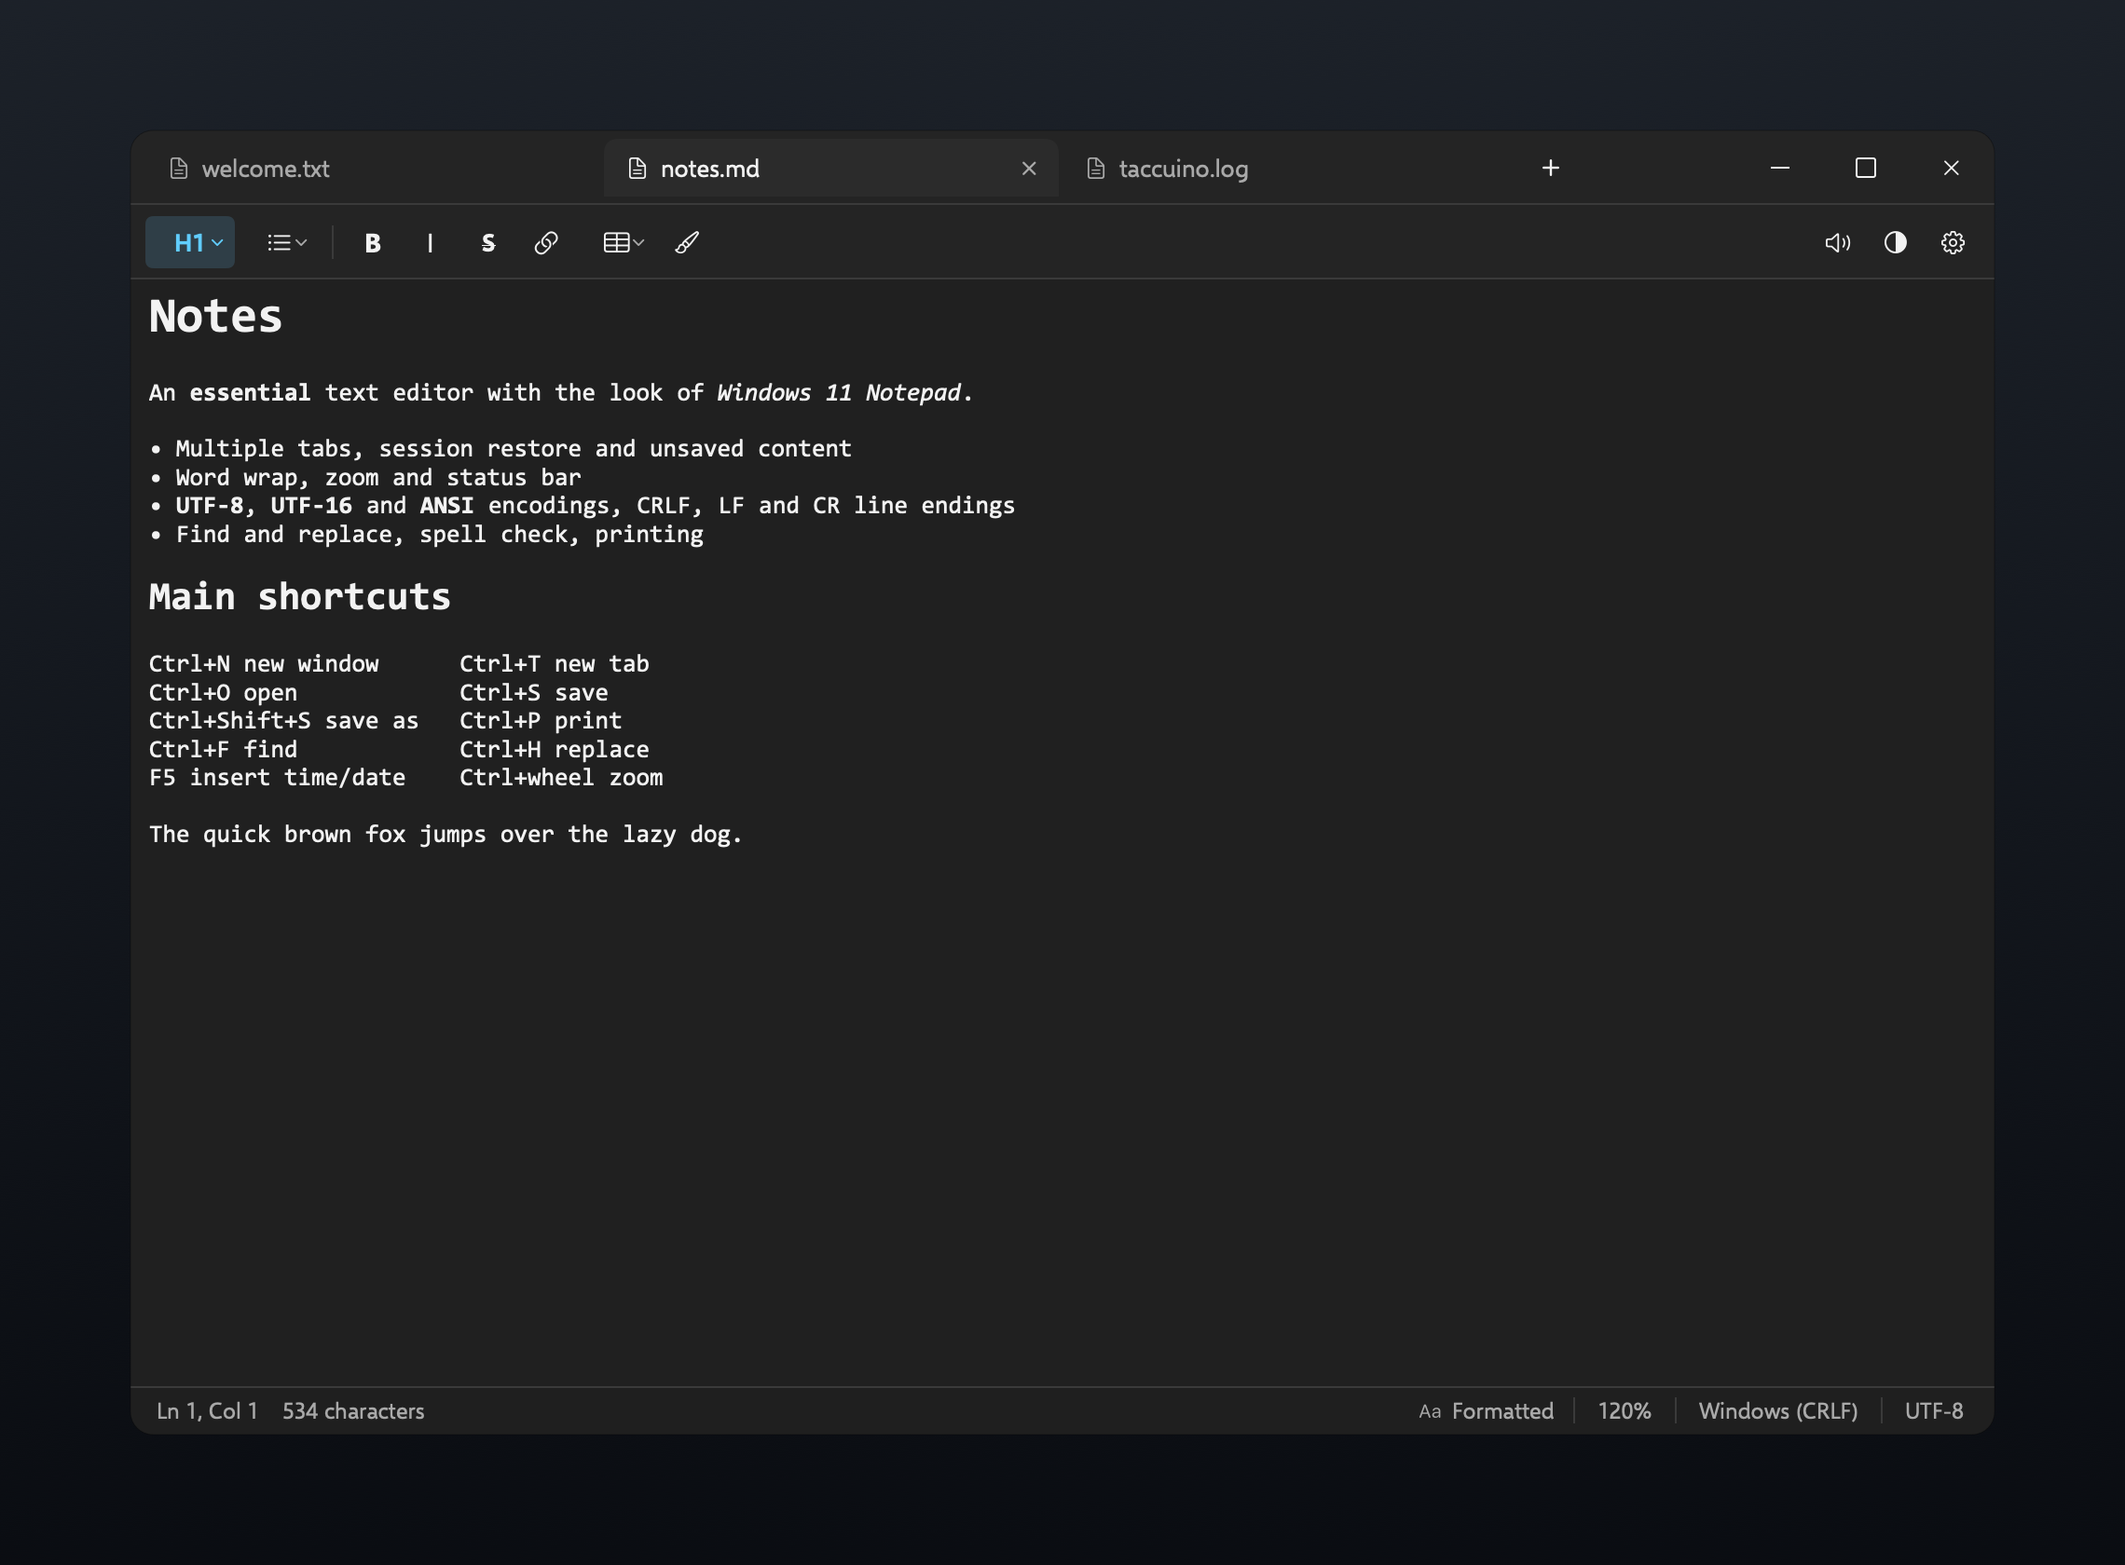
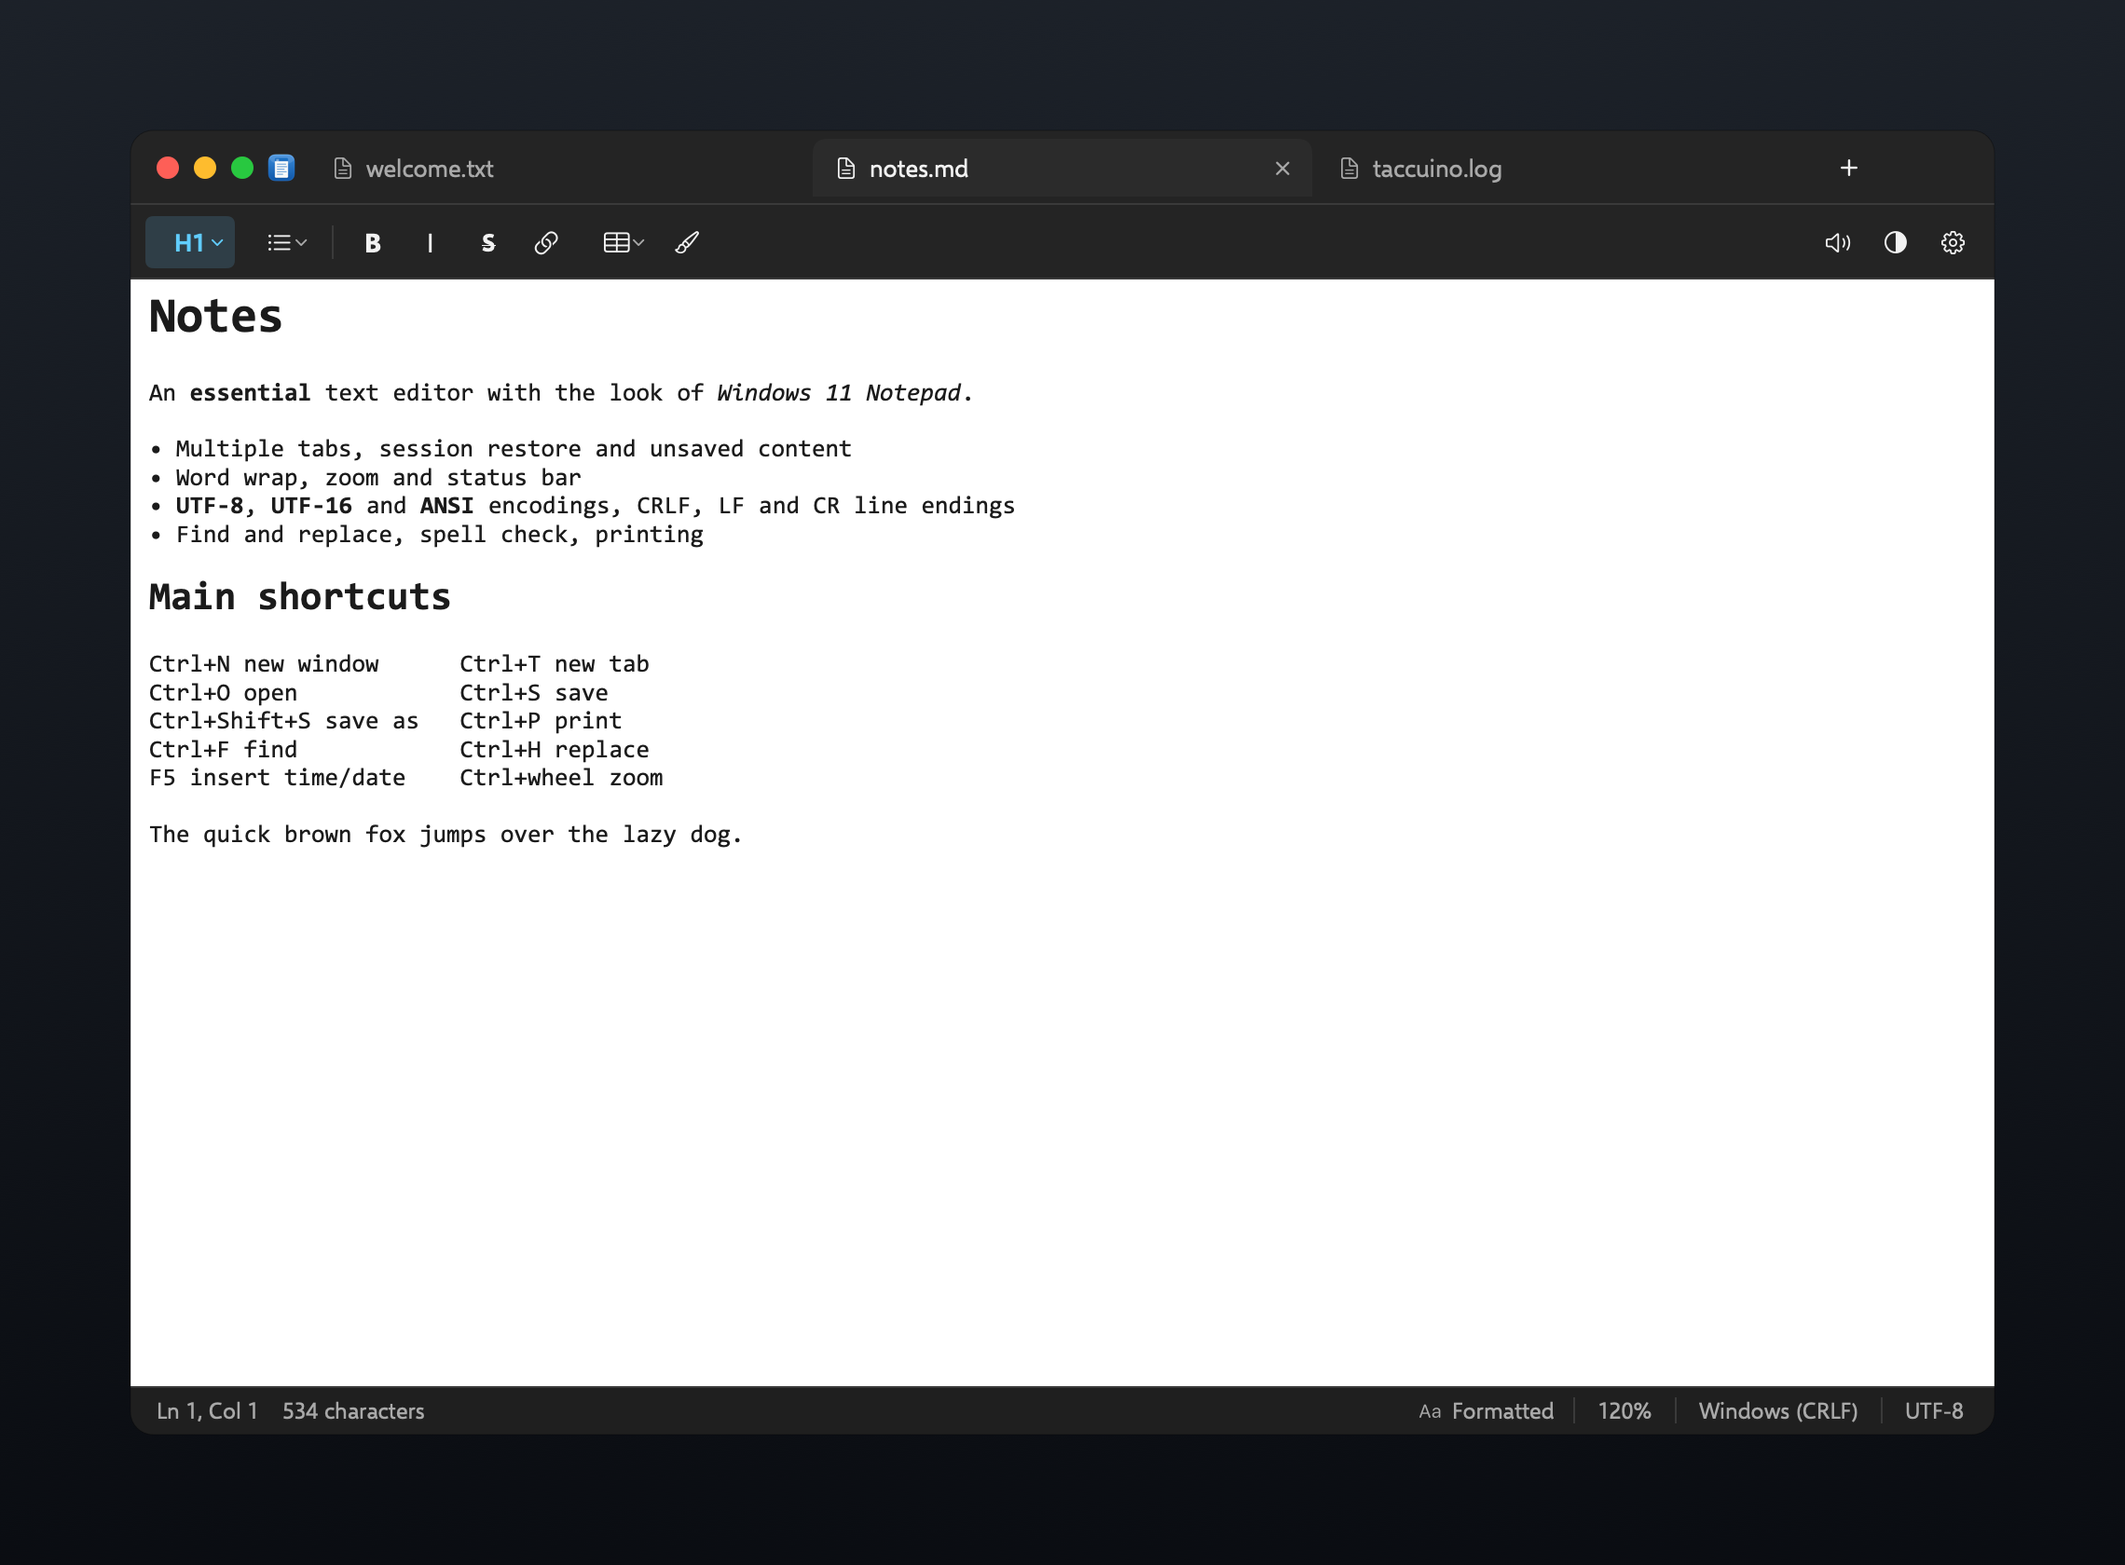
Use macOS window controls only

diff --git a/Sources/Taccuino/Views/WindowChrome.swift b/Sources/Taccuino/Views/WindowChrome.swift
@@ -45,99 +45,3 @@ struct MacTrafficLights: View {
         .accessibilityLabel(help)
     }
 }
-
-/// Pulsanti di riduzione, ingrandimento e chiusura nello stile di Windows 11.
-struct WindowsCaptionButtons: View {
-    @ObservedObject var model: WindowModel
-    let theme: Theme
-
-    var body: some View {
-        HStack(spacing: 0) {
-            captionButton(kind: .minimize)
-            captionButton(kind: .maximize)
-            captionButton(kind: .close)
-        }
-        .frame(height: TabMetrics.barHeight)
-        .accessibilityElement(children: .contain)
-    }
-
-    fileprivate enum Kind {
-        case minimize
-        case maximize
-        case close
-    }
-
-    private func captionButton(kind: Kind) -> some View {
-        CaptionButton(kind: kind, theme: theme) {
-            switch kind {
-            case .minimize:
-                model.window?.performMiniaturize(nil)
-            case .maximize:
-                model.window?.performZoom(nil)
-            case .close:
-                model.window?.performClose(nil)
-            }
-        }
-    }
-}
-
-private struct CaptionButton: View {
-    let kind: WindowsCaptionButtons.Kind
-    let theme: Theme
-    let action: () -> Void
-
-    @State private var hovering = false
-
-    var body: some View {
-        Button(action: action) {
-            ZStack {
-                Rectangle()
-                    .fill(background)
-                glyph
-            }
-            .frame(width: 46, height: TabMetrics.barHeight)
-            .contentShape(Rectangle())
-        }
-        .buttonStyle(.plain)
-        .onHover { hovering = $0 }
-        .help(helpText)
-        .accessibilityLabel(helpText)
-    }
-
-    private var background: Color {
-        if hovering {
-            return kind == .close ? Color(hex: 0xC42B1C) : theme.hover
-        }
-        return .clear
-    }
-
-    private var glyphColor: Color {
-        hovering && kind == .close ? .white : theme.text
-    }
-
-    @ViewBuilder
-    private var glyph: some View {
-        switch kind {
-        case .minimize:
-            Rectangle()
-                .fill(glyphColor)
-                .frame(width: 10, height: 1)
-        case .maximize:
-            RoundedRectangle(cornerRadius: 1)
-                .stroke(glyphColor, lineWidth: 1)
-                .frame(width: 10, height: 10)
-        case .close:
-            Image(systemName: "xmark")
-                .font(.system(size: 10, weight: .regular))
-                .foregroundColor(glyphColor)
-        }
-    }
-
-    private var helpText: String {
-        switch kind {
-        case .minimize: return L.t("Riduci a icona", "Minimize")
-        case .maximize: return L.t("Ingrandisci", "Maximize")
-        case .close: return L.t("Chiudi", "Close")
-        }
-    }
-}

diff --git a/Sources/Taccuino/Models/SettingsStore.swift b/Sources/Taccuino/Models/SettingsStore.swift
@@ -17,20 +17,6 @@ enum ThemeMode: String, CaseIterable, Identifiable {
     }
 }
 
-enum WindowChromeStyle: String, CaseIterable, Identifiable {
-    case macOS
-    case windows
-
-    var id: String { rawValue }
-
-    var displayName: String {
-        switch self {
-        case .macOS: return "macOS"
-        case .windows: return L.t("Windows", "Windows")
-        }
-    }
-}
-
 enum FontStyle: String, CaseIterable, Identifiable {
     case regular
     case bold
@@ -63,7 +49,6 @@ final class SettingsStore: ObservableObject {
         static let spellCheck = "taccuino.spellCheck"
         static let autocorrect = "taccuino.autocorrect"
         static let restoreSession = "taccuino.restoreSession"
-        static let windowChrome = "taccuino.windowChrome"
         static let formattingEnabled = "taccuino.formattingEnabled"
         static let formattingToolbarVisible = "taccuino.formattingToolbarVisible"
         static let autosaveFiles = "taccuino.autosaveFiles"
@@ -115,10 +100,6 @@ final class SettingsStore: ObservableObject {
         didSet { defaults.set(restoreSession, forKey: Key.restoreSession) }
     }
 
-    @Published var windowChrome: WindowChromeStyle {
-        didSet { defaults.set(windowChrome.rawValue, forKey: Key.windowChrome) }
-    }
-
     @Published var formattingEnabled: Bool {
         didSet { defaults.set(formattingEnabled, forKey: Key.formattingEnabled) }
     }
@@ -148,7 +129,6 @@ final class SettingsStore: ObservableObject {
         spellCheck = defaults.object(forKey: Key.spellCheck) as? Bool ?? true
         autocorrect = defaults.object(forKey: Key.autocorrect) as? Bool ?? false
         restoreSession = defaults.object(forKey: Key.restoreSession) as? Bool ?? true
-        windowChrome = WindowChromeStyle(rawValue: defaults.string(forKey: Key.windowChrome) ?? "") ?? .windows
         formattingEnabled = defaults.object(forKey: Key.formattingEnabled) as? Bool ?? true
         formattingToolbarVisible = defaults.object(forKey: Key.formattingToolbarVisible) as? Bool ?? true
         autosaveFiles = defaults.object(forKey: Key.autosaveFiles) as? Bool ?? true

diff --git a/Sources/Taccuino/Views/TabBarView.swift b/Sources/Taccuino/Views/TabBarView.swift
@@ -83,24 +83,20 @@ struct TabBarView: View {
 
     var body: some View {
         GeometryReader { geo in
-            let isMac = settings.windowChrome == .macOS
-            let leading: CGFloat = isMac ? 14 : 8
-            let lights: CGFloat = isMac ? 52 : 0
-            let captions: CGFloat = isMac ? 0 : 138
-            let trailing: CGFloat = isMac ? 8 : 0
+            let leading: CGFloat = 14
+            let lights: CGFloat = 52
+            let trailing: CGFloat = 8
             let dragWidth: CGFloat = 50
-            let fixed = leading + lights + 18 + 18 + dragWidth + 30 + trailing + captions
+            let fixed = leading + lights + 18 + 18 + dragWidth + 30 + trailing
             let available = max(200, geo.size.width - fixed)
             let count = max(1, model.tabCount)
             let tabWidth = min(320, max(84, available / CGFloat(count) - 2))
 
             HStack(spacing: 6) {
-                if isMac {
-                    MacTrafficLights(model: model, theme: theme)
-                        .frame(width: lights)
-                    AppMark()
-                        .frame(width: 18, height: 18)
-                }
+                MacTrafficLights(model: model, theme: theme)
+                    .frame(width: lights)
+                AppMark()
+                    .frame(width: 18, height: 18)
 
                 ScrollViewReader { proxy in
                     ScrollView(.horizontal, showsIndicators: false) {
@@ -132,10 +128,6 @@ struct TabBarView: View {
                 WindowDragArea()
                     .frame(width: dragWidth, height: TabMetrics.barHeight)
 
-                if !isMac {
-                    WindowsCaptionButtons(model: model, theme: theme)
-                        .frame(width: captions)
-                }
             }
             .padding(.leading, leading)
             .padding(.trailing, trailing)

diff --git a/Sources/Taccuino/Views/SettingsView.swift b/Sources/Taccuino/Views/SettingsView.swift
@@ -22,8 +22,6 @@ struct SettingsView: View {
                     SettingsCard(theme: theme) {
                         themeRow
                         rowDivider
-                        chromeRow
-                        rowDivider
                         fontRow
                         rowDivider
                         zoomRow
@@ -143,22 +141,6 @@ struct SettingsView: View {
                     at: CGPoint(x: frame.minX, y: frame.maxY + 2)
                 ) { index in
                     settings.theme = options[index]
-                }
-            }
-        }
-    }
-
-    private var chromeRow: some View {
-        row(title: L.t("Controlli finestra", "Window controls")) {
-            FluentCombo(value: settings.windowChrome.displayName, theme: theme, width: 180) { frame in
-                let options = WindowChromeStyle.allCases
-                let selected = options.firstIndex(of: settings.windowChrome) ?? 0
-                model.showDropdown(
-                    options: options.map(\.displayName),
-                    selected: selected,
-                    at: CGPoint(x: frame.minX, y: frame.maxY + 2)
-                ) { index in
-                    settings.windowChrome = options[index]
                 }
             }
         }

diff --git a/README.md b/README.md
@@ -1,6 +1,6 @@
 # Taccuino
 
-A native macOS text editor that recreates the **Windows 11 Notepad** experience: tabs, status bar, find & replace, Windows encodings, Markdown formatting, real tables and session restore. The UI follows Windows 11 / Fluent design, with **Windows 11 window controls** by default and optional macOS traffic lights. Commands live in the macOS menu bar; the window contains only the tab strip, formatting toolbar, editor and status bar. The interface is available in English and Italian, following the macOS language.
+A native macOS text editor that recreates the **Windows 11 Notepad** experience: tabs, status bar, find & replace, Windows encodings, Markdown formatting, real tables and session restore. The UI follows Windows 11 / Fluent design, with native **macOS traffic-light** window controls. Commands live in the macOS menu bar; the window contains only the tab strip, formatting toolbar, editor and status bar. The interface is available in English and Italian, following the macOS language.
 
 > Independent project, not affiliated with Microsoft. “Notepad” and “Windows” are trademarks of Microsoft Corporation. The code, the Taccuino name and the app icon are original. Bundled fonts (Selawik, Cascadia Mono) are distributed under the SIL OFL 1.1 license; Consolas is not bundled.
 
@@ -10,9 +10,7 @@ A native macOS text editor that recreates the **Windows 11 Notepad** experience:
 |---|---|
 | ![Dark theme](docs/screenshot-dark.png) | ![Find and replace](docs/screenshot-find.png) |
 
-| Settings | macOS window controls (optional) |
-|---|---|
-| ![Settings](docs/screenshot-settings.png) | ![macOS window controls](docs/screenshot-macos.png) |
+![Settings](docs/screenshot-settings.png)
 
 ![Tables](docs/screenshot-tables.png)
 
@@ -24,7 +22,7 @@ A native macOS text editor that recreates the **Windows 11 Notepad** experience:
 
 ## Features
 
-- **Faithful Windows 11 look**: tabs integrated into the title bar, status bar and a translucent **Mica-like** surface in light and dark themes with Fluent blue accents. Window controls are the **Windows 11** minimize/maximize/close buttons by default; macOS traffic lights are available in *Settings › Appearance › Window controls*.
+- **Faithful Windows 11 look**: tabs integrated into the title bar, status bar and a translucent **Mica-like** surface in light and dark themes with Fluent blue accents. Window controls are the native **macOS traffic lights**, aligned with the tab strip.
 - **No in-window menu bar**: File, Edit, View, Format, Window and Settings are in the macOS menu bar. The window only contains tabs, the formatting toolbar, the editor and the status bar.
 - **Markdown formatting**: toolbar below the tabs with normal text and headings (H1–H3), bulleted/numbered lists with indentation, bold, italic, strikethrough, links, tables and clear formatting. With no selection, bold/italic/strikethrough format the word at the cursor; on empty text or whitespace they do nothing instead of inserting stray `****` or `~~~~` markers. A dedicated **Format** menu in the macOS menu bar mirrors the toolbar. The toolbar can be shown or hidden from *View* and Settings. If you disable formatting, you can re-enable it from *View › Enable formatting*, *Format › Enable formatting* or Settings. Switch between **Formatted** and **Markdown** views from the Format menu or the status-bar button. Formatting is stored as Markdown and can be disabled in Settings.
 - **Real tables**: Markdown tables are rendered as a Windows 11-style grid with a header, borders and editable cells. The **Table** button opens an 8×8 grid picker for rows and columns. Click to select a cell, double-click (or start typing) to edit it, drag or Shift-click to select a rectangular range, use the arrow keys to move and Shift+arrows to extend the selection. `⌘C`, `⌘X`, `⌘V` and Delete work on ranges: copy/cut as tab-separated text, paste TSV data (adding rows/columns when needed) and clear cell contents. Bold, italic, strikethrough and clear formatting apply to the selected cells. **Format › Table**, the table context menu and the picker let you add rows/columns above, below, left or right and delete them. Files remain standard Markdown tables.
@@ -47,7 +45,7 @@ A native macOS text editor that recreates the **Windows 11 Notepad** experience:
 - **Themes**: System, Light, Dark. The theme follows macOS appearance changes while the app is open.
 - **File and formatting settings**: auto-save for saved files, formatting/toolbar toggles and default zoom are persistent. Autocorrect can also be toggled from *Edit › Spelling › Autocorrect*.
 - **Bilingual**: English and Italian, following the macOS language. You can set the language for the app only in *System Settings › General › Language & Region › Applications*.
-- **Aligned window**: Windows 11 caption buttons by default (or optional macOS traffic lights), drawn and centered, draggable tab strip, double-click to zoom and full screen from the menu.
+- **Aligned window**: macOS traffic lights drawn and centered, draggable tab strip, double-click to zoom and full screen from the menu.
 - **No telemetry**, no servers, no network access.
 
 ## Requirements
@@ -156,7 +154,7 @@ Sources/Taccuino/
 
 ## Notes and limitations
 
-- **macOS adaptations**: Open/Save panels are native macOS panels. Window buttons are drawn by Taccuino for perfect alignment: **Windows 11 chrome by default**, or macOS traffic lights from Settings. Commands live in the macOS menu bar.
+- **macOS adaptations**: Open/Save panels are native macOS panels. Window buttons are the native **macOS traffic lights**, drawn by Taccuino for perfect alignment with the tab strip. Commands live in the macOS menu bar.
 - The Mica surface uses macOS's translucent material tinted with Fluent colors: it is a Mica-like effect, not a pixel-perfect sampling of the Windows desktop.
 - **Not included**: Microsoft cloud features (Rewrite/Summarize with Copilot), which require Microsoft services. Local Markdown formatting is included (bold, italic, strikethrough, headings, lists, links, tables, Formatted/Markdown view).
 - Formatting is stored as Markdown. In Formatted view, headings, bold, italic, strikethrough and links are rendered visually, and tables appear as editable grids; lists still show Markdown markers (`-`, `1.`). The Markdown view shows the complete source, tables included.
